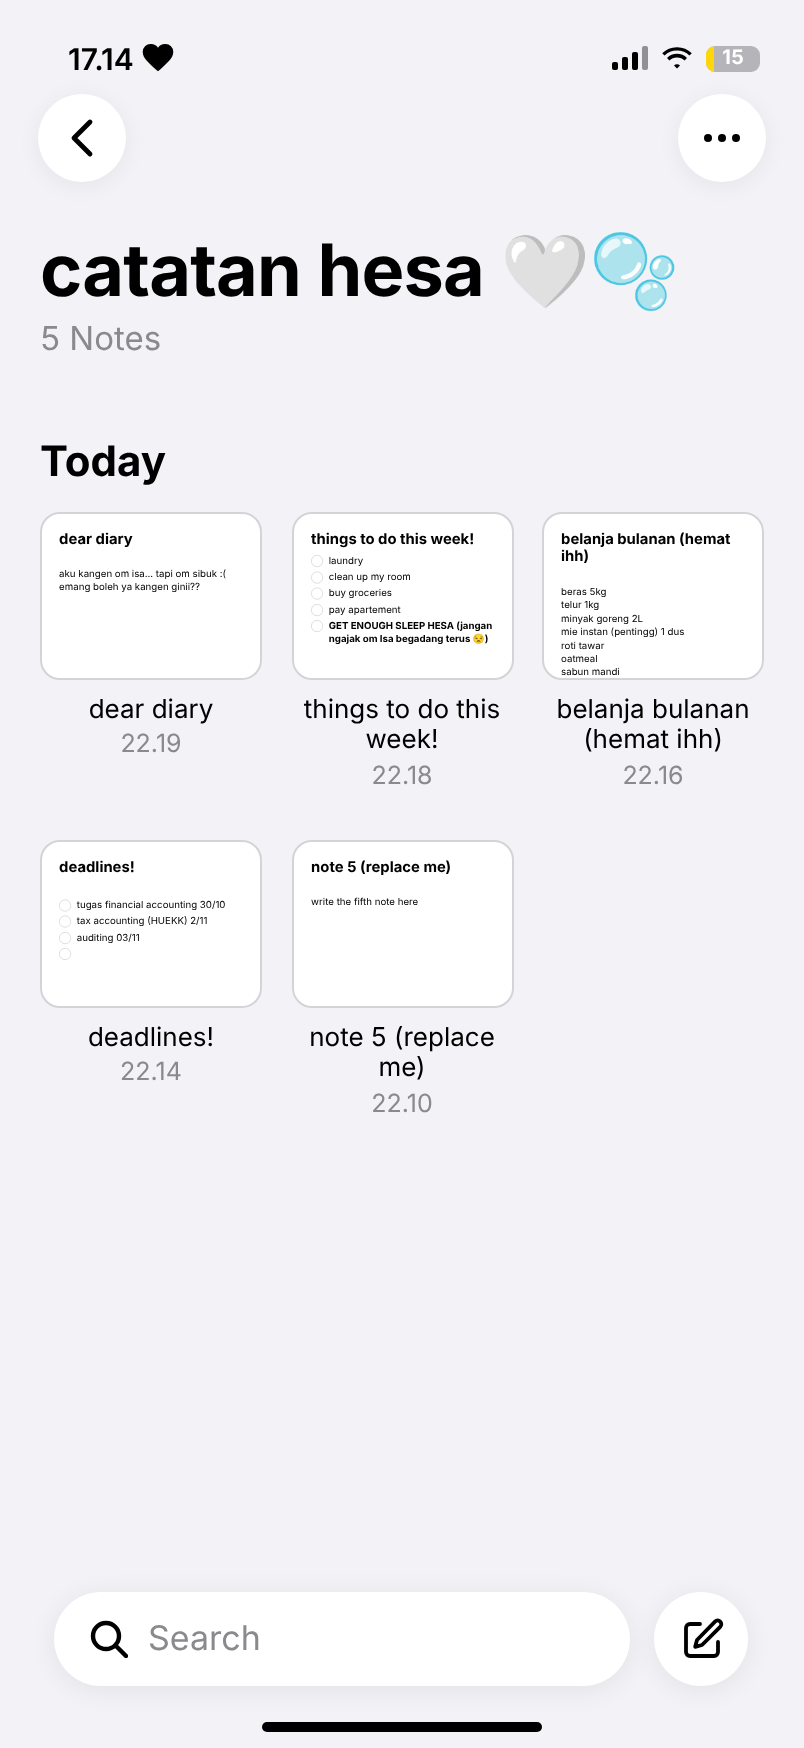
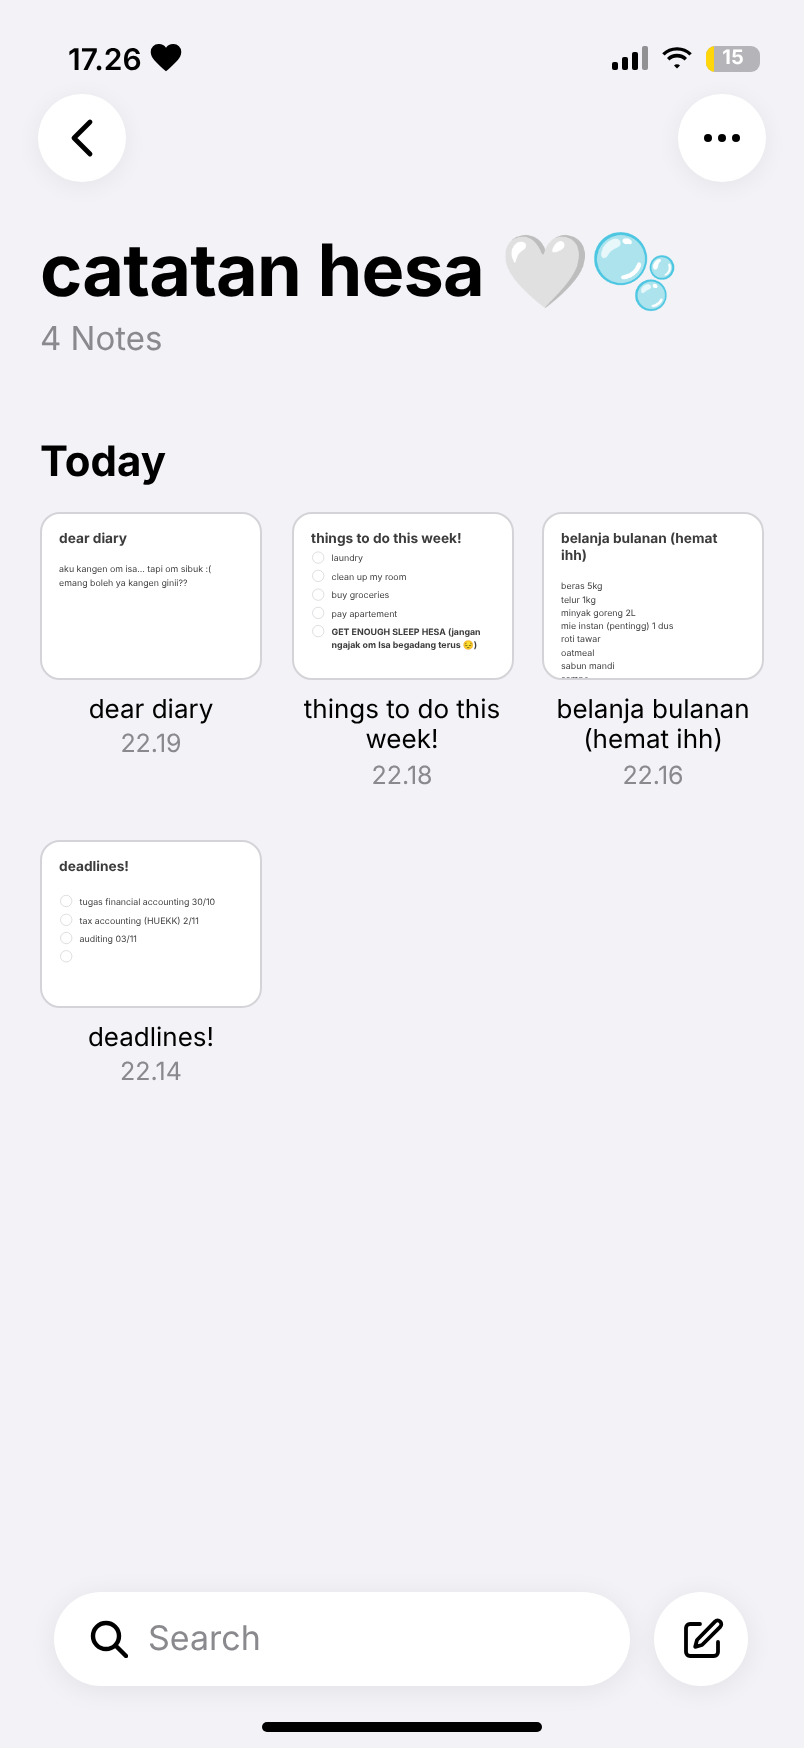
Match the Notes note view to Hesa's phone and use the real note texts
Note view without the date line, share/more pill, separate checklist/
attach/markup toolbar and compose button, dark grey text. Shopping list
gets its last three items, the sleep reminder uses the pensive emoji,
and the placeholder fifth note is gone (4 notes, as on the phone).

Claude-Session: https://claude.ai/code/session_01S4MMPuSAFcVib9uRGyTrxa

diff --git a/index.html b/index.html
@@ -847,21 +847,24 @@
 
     /* a note */
     .nt-note { background: #fff; }
-    .nt-note .nt-btn { background: #f2f2f7; box-shadow: none; }
-    .nt-date { text-align: center; color: #8a8a8e; font-size: 13px; padding-top: 108px; }
-    .nt-body { padding: 14px 22px 0; }
-    .nt-doc { font-size: 17px; line-height: 1.38; }
-    .nt-doc h2 { font-size: 26px; font-weight: 700; line-height: 1.2; margin-bottom: 12px; }
+    .nt-note .nt-btn { background: #fff; box-shadow: 0 4px 22px rgba(0,0,0,.09); }
+    .nt-pill { display: flex; align-items: center; gap: 36px; padding: 0 22px; }
+    .nt-body { padding: 104px 26px 0; }
+    .nt-doc { font-size: 15.5px; line-height: 1.5; color: #3c3c3c; }
+    .nt-doc h2 { font-size: 24px; font-weight: 700; line-height: 1.25; margin-bottom: 6px; }
     .nt-doc p { min-height: 1.38em; white-space: pre-wrap; word-wrap: break-word; }
-    .nt-doc .ck { display: flex; align-items: flex-start; gap: 10px; margin: 5px 0; }
-    .nt-doc .ck i { flex: none; width: 21px; height: 21px; border-radius: 50%; border: 1.5px solid #c7c7cc; margin-top: 1px;
+    .nt-doc .ck { display: flex; align-items: flex-start; gap: 13px; margin: 8px 0 9px 2px; }
+    .nt-doc .ck i { flex: none; width: 21px; height: 21px; border-radius: 50%; border: 1.5px solid #c7c7cc; margin-top: 0;
                     display: grid; place-items: center; cursor: pointer; }
     .nt-doc .ck.done i { background: #e5a800; border-color: #e5a800; }
     .nt-doc .ck.done i::after { content: ""; width: 5px; height: 10px; border: solid #fff; border-width: 0 2px 2px 0; transform: translateY(-1px) rotate(45deg); }
     .nt-doc .ck span { flex: 1; min-width: 0; white-space: pre-wrap; word-wrap: break-word; }
     .nt-doc .ck.done span { color: #8a8a8e; }
-    .nt-tools { position: absolute; left: 28px; right: 28px; bottom: 31px; height: 50px; border-radius: 25px; background: #f2f2f7;
-                display: flex; align-items: center; justify-content: space-around; z-index: 2; }
+    .nt-tools { position: absolute; left: 27px; right: 28px; bottom: 31px; display: flex; align-items: center; justify-content: space-between; z-index: 2; }
+    .nt-tools .grp { height: 47px; border-radius: 24px; background: #fff; display: flex; align-items: center; gap: 34px; padding: 0 16px;
+                     box-shadow: 0 4px 22px rgba(0,0,0,.09); }
+    .nt-tools .one { width: 47px; height: 47px; border-radius: 50%; background: #fff; display: grid; place-items: center;
+                     box-shadow: 0 4px 22px rgba(0,0,0,.09); }
   </style>
   <div class="nt">
     <!-- folder -->
@@ -884,21 +887,23 @@
     <!-- open note -->
     <div class="nt-page nt-note" id="ntNote">
       <div class="nt-scroll">
-        <div class="nt-date" id="ntDate"></div>
         <div class="nt-body"><div class="nt-doc" id="ntDoc"></div></div>
       </div>
       <div class="nt-bar">
         <button class="nt-btn" id="ntBack" type="button" aria-label="Back"><svg width="12" height="20" viewBox="0 0 12 20" fill="none" stroke="#000" stroke-width="2.4" stroke-linecap="round" stroke-linejoin="round"><path d="M10 2 2 10l8 8"/></svg></button>
         <span class="sp"></span>
-        <button class="nt-btn" type="button" aria-label="Share"><svg width="18" height="22" viewBox="0 0 22 26" fill="none" stroke="#000" stroke-width="2" stroke-linecap="round" stroke-linejoin="round"><path d="M11 16V2M6 6l5-5 5 5M7 10H3v14h16V10h-4"/></svg></button>
-        <button class="nt-btn" type="button" aria-label="More"><svg width="18" height="4" viewBox="0 0 18 4" fill="#000"><circle cx="2" cy="2" r="2"/><circle cx="9" cy="2" r="2"/><circle cx="16" cy="2" r="2"/></svg></button>
+        <div class="nt-btn nt-pill">
+          <svg width="18" height="22" viewBox="0 0 22 26" fill="none" stroke="#000" stroke-width="2" stroke-linecap="round" stroke-linejoin="round"><path d="M11 16V2M6 6l5-5 5 5M7 10H3v14h16V10h-4"/></svg>
+          <svg width="18" height="4" viewBox="0 0 18 4" fill="#000"><circle cx="2" cy="2" r="2"/><circle cx="9" cy="2" r="2"/><circle cx="16" cy="2" r="2"/></svg>
+        </div>
       </div>
       <div class="nt-tools">
-        <svg width="22" height="20" viewBox="0 0 22 20" fill="none" stroke="#000" stroke-width="1.8" stroke-linecap="round"><circle cx="3.5" cy="4" r="2.5"/><circle cx="3.5" cy="16" r="2.5"/><path d="M9 4h12M9 16h12"/></svg>
-        <svg width="22" height="18" viewBox="0 0 22 18" fill="none" stroke="#000" stroke-width="1.8" stroke-linejoin="round"><path d="M1 3h20v12H1Z"/><path d="M1 8h20M8 3v12"/></svg>
-        <svg width="24" height="20" viewBox="0 0 26 20" fill="none" stroke="#000" stroke-width="1.8"><path d="M9 1h8l2 3h4a2 2 0 0 1 2 2v11a2 2 0 0 1-2 2H3a2 2 0 0 1-2-2V6a2 2 0 0 1 2-2h4Z"/><circle cx="13" cy="11.5" r="4.3"/></svg>
-        <svg width="22" height="22" viewBox="0 0 22 22" fill="none" stroke="#000" stroke-width="1.8" stroke-linecap="round" stroke-linejoin="round"><path d="M3 19c3-1 5-3 7-6l7-9a2 2 0 0 1 3 2.5l-8 8.5c-3 2.5-5.5 3.5-9 4Z"/></svg>
-        <svg width="22" height="22" viewBox="0 0 22 22" fill="none" stroke="#000" stroke-width="1.9" stroke-linecap="round" stroke-linejoin="round"><path d="M10 3H5a2 2 0 0 0-2 2v12a2 2 0 0 0 2 2h12a2 2 0 0 0 2-2v-5"/><path d="M17.5 1.8a1.8 1.8 0 0 1 2.6 2.6L11 13.5l-3.4.9.9-3.4Z"/></svg>
+        <div class="grp">
+          <svg width="26" height="20" viewBox="0 0 26 20" fill="none" stroke="#000" stroke-width="1.8" stroke-linecap="round"><circle cx="4" cy="4" r="3.2" fill="#000"/><path d="m2.6 4 1 1 1.8-2" stroke="#fff" stroke-width="1.2"/><circle cx="4" cy="15.5" r="3.2"/><path d="M11 4h13M11 15.5h13"/></svg>
+          <svg width="22" height="24" viewBox="0 0 22 24" fill="none" stroke="#000" stroke-width="1.8" stroke-linecap="round" stroke-linejoin="round"><path d="M19.5 11 11 19.5a5.5 5.5 0 0 1-7.8-7.8L12 3a3.7 3.7 0 0 1 5.2 5.2L8.5 16.9a1.8 1.8 0 0 1-2.6-2.6l7.8-7.8"/></svg>
+          <svg width="24" height="24" viewBox="0 0 24 24" fill="none" stroke="#000" stroke-width="1.8" stroke-linejoin="round"><circle cx="12" cy="12" r="10.5"/><path d="M8.5 21 12 7l3.5 14M9.6 17h4.8"/></svg>
+        </div>
+        <div class="one"><svg width="22" height="22" viewBox="0 0 22 22" fill="none" stroke="#000" stroke-width="1.9" stroke-linecap="round" stroke-linejoin="round"><path d="M10 3H5a2 2 0 0 0-2 2v12a2 2 0 0 0 2 2h12a2 2 0 0 0 2-2v-5"/><path d="M17.5 1.8a1.8 1.8 0 0 1 2.6 2.6L11 13.5l-3.4.9.9-3.4Z"/></svg></div>
       </div>
     </div>
   </div>
@@ -924,23 +929,24 @@
     settingsBadge: 4,
     // Notes app. Each note's text: the first line is its title; a line
     // starting with "[ ] " is a checklist item, "[x] " a ticked one;
-    // **text** is bold. section groups notes under a heading ("Today", …).
+    // **text** is bold. section groups notes under a heading ("Today", …);
+    // time shows under the note in the folder.
     notes: {
       folder: "catatan hesa 🤍🫧",
       notes: [
-        { section: "Today", time: "22.19", date: "29 October 2026 at 22.19", text:
+        { section: "Today", time: "22.19", text:
 `dear diary
 
 aku kangen om isa... tapi om sibuk :(
 emang boleh ya kangen ginii??` },
-        { section: "Today", time: "22.18", date: "29 October 2026 at 22.18", text:
+        { section: "Today", time: "22.18", text:
 `things to do this week!
 [ ] laundry
 [ ] clean up my room
 [ ] buy groceries
 [ ] pay apartement
-[ ] **GET ENOUGH SLEEP HESA (jangan ngajak om Isa begadang terus 😒)**` },
-        { section: "Today", time: "22.16", date: "29 October 2026 at 22.16", text:
+[ ] **GET ENOUGH SLEEP HESA (jangan ngajak om Isa begadang terus 😔)**` },
+        { section: "Today", time: "22.16", text:
 `belanja bulanan (hemat ihh)
 
 beras 5kg
@@ -952,18 +958,17 @@ oatmeal
 sabun mandi
 sampo
 pasta gigi
-deterjen` },
-        { section: "Today", time: "22.14", date: "29 October 2026 at 22.14", text:
+deterjen
+tisuuuuu
+kantong sampah 😭
+:3` },
+        { section: "Today", time: "22.14", text:
 `deadlines!
 
 [ ] tugas financial accounting 30/10
 [ ] tax accounting (HUEKK) 2/11
 [ ] auditing 03/11
 [ ] ` },
-        { section: "Today", time: "22.10", date: "29 October 2026 at 22.10", text:
-`note 5 (replace me)
-
-write the fifth note here` },
       ],
     },
     // Photos app ("Recently Saved"). Newest first. For a video, add
@@ -1371,7 +1376,6 @@ write the fifth note here` },
       let cur = null;
       const openNote = i => {
         cur = i;
-        $l("#ntDate").textContent = notes[i].date || "";
         $l("#ntDoc").innerHTML = docHTML(i);
         $l("#ntNote .nt-scroll").scrollTop = 0;
         page("ntNote");
